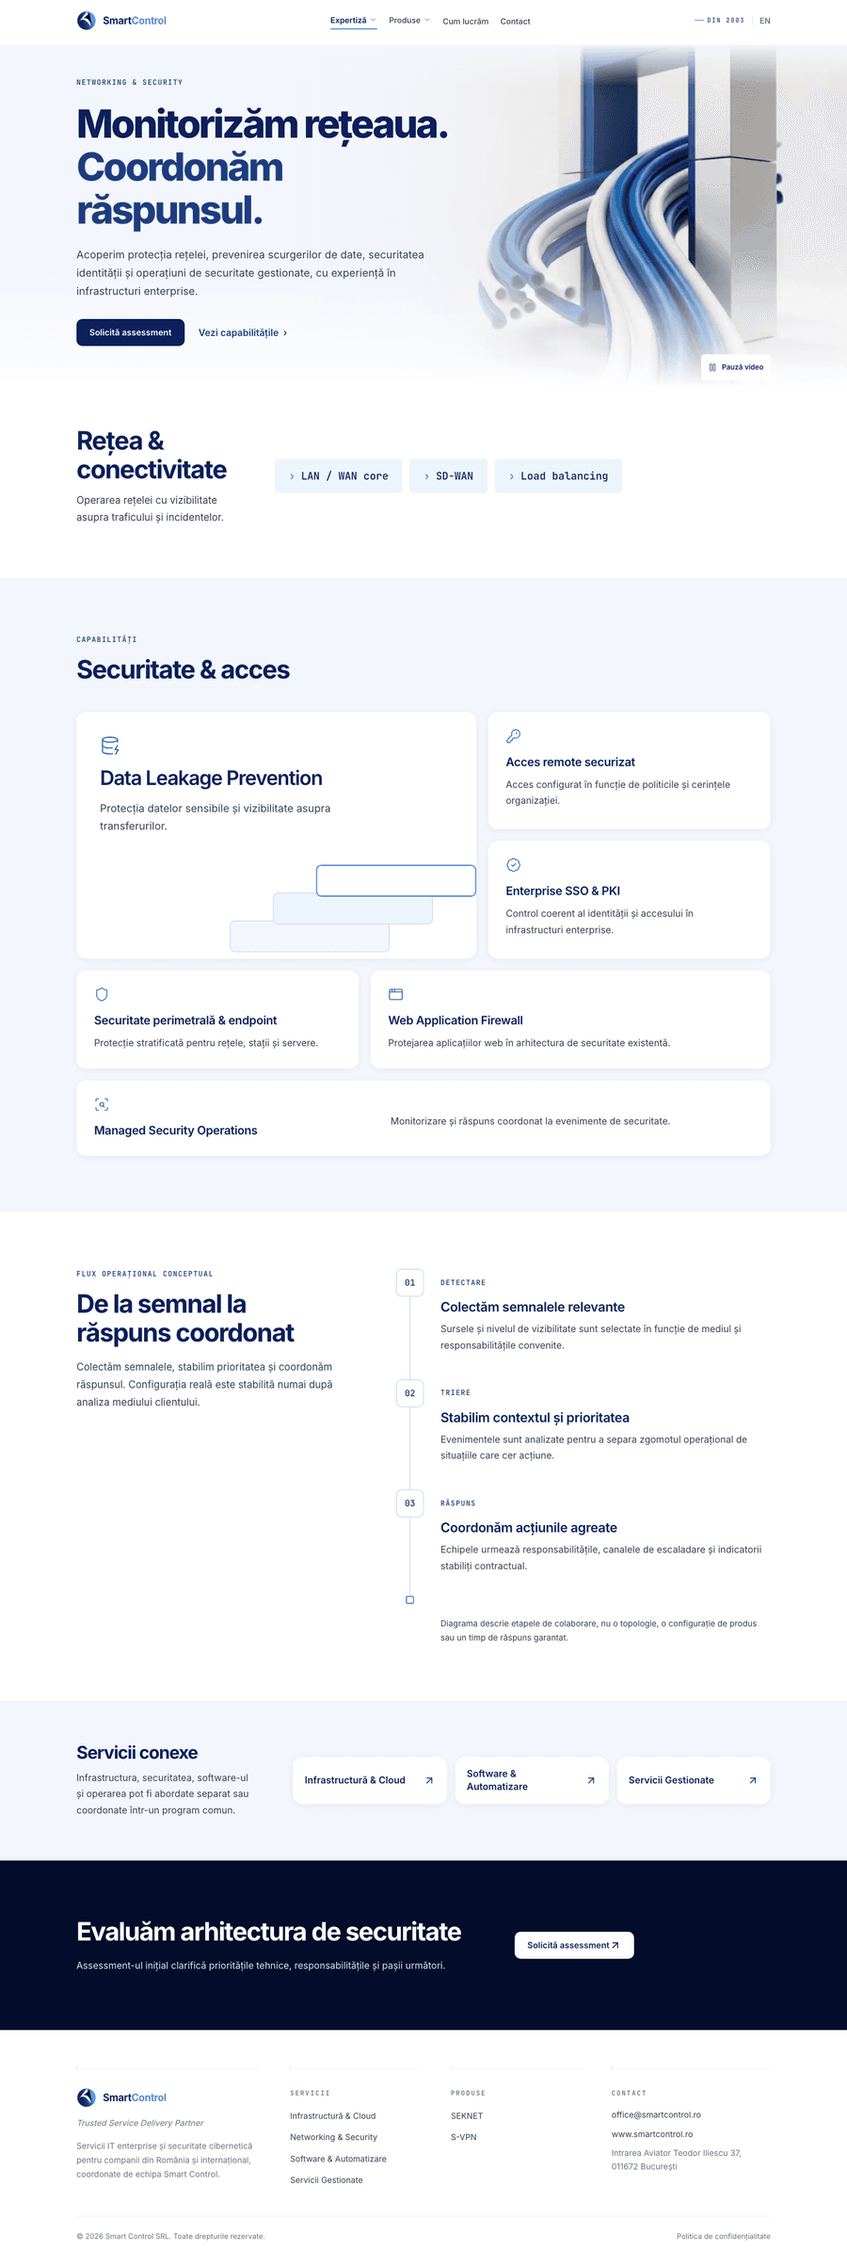
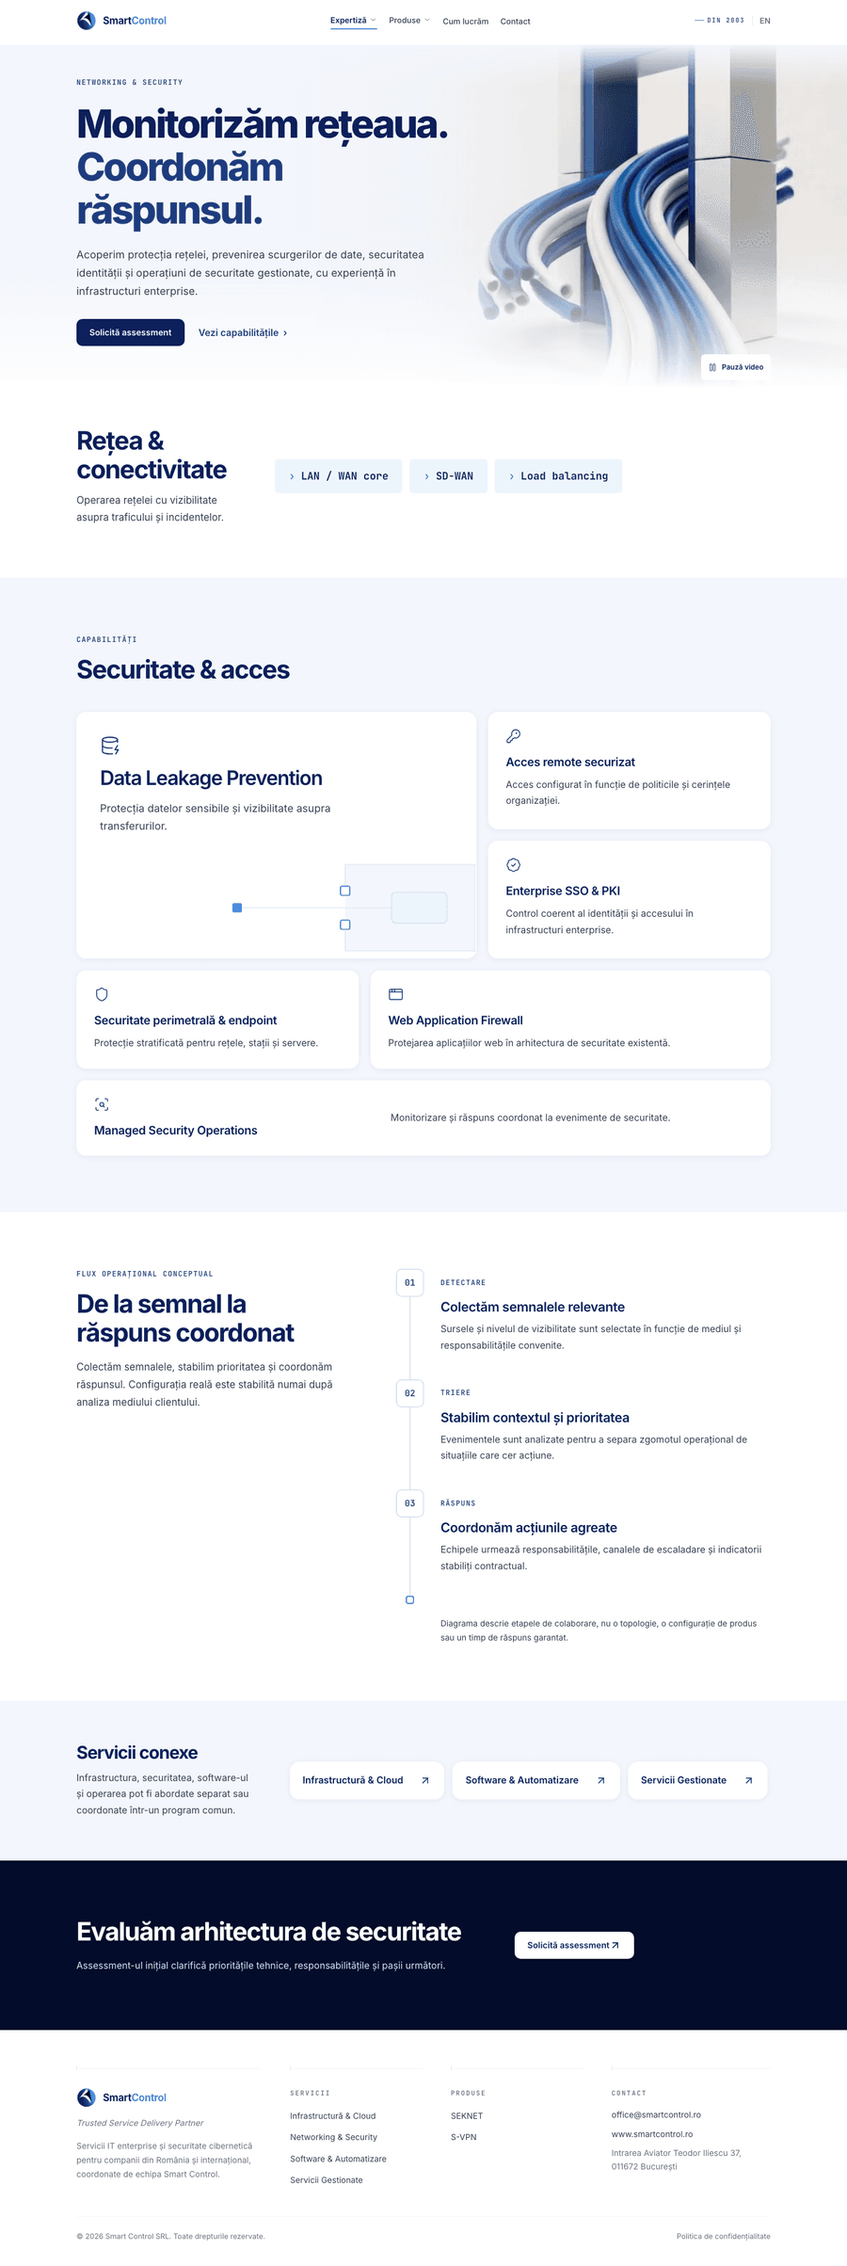
fix(services): address review of the service template redesign
- capability icons in royal (mid-blue is a gradient stop only)
- featured-tile motif varies per service (plates, perimeter gate,
  pipeline gates, orbit) instead of one repeated decoration
- decorative chevrons use the content alt-text form so they are not read
- pill weights 400/600 (500 is nav-only); terminal uses --radius-xs
- wide-card text selectors outrank .svc-card p (spacing bug)
- initStepper fills the whole rail under reduced motion, replacing the
  CSS !important override
- document the white-band assumption behind the flow note
- related links size to their titles on one desktop row
- README: explicit hero spacing note and Review follow-ups

diff --git a/src/styles/detail.css b/src/styles/detail.css
@@ -396,7 +396,7 @@
   padding: 12px 18px;
   border-radius: var(--radius-sm);
   background: var(--color-blue-wash);
-  font: 500 0.9375rem/1.45 var(--font-mono);
+  font: 400 0.9375rem/1.45 var(--font-mono);
   letter-spacing: -0.01em;
   color: var(--color-navy);
 }
@@ -404,9 +404,11 @@
 .svc-pills--tokens li {
   padding: 16px 24px;
   font-size: 1.125rem;
+  font-weight: 600;
 }
 .svc-pills li::before {
   content: "›";
+  content: "›" / "";
   font-weight: 700;
   color: var(--color-bright);
 }
@@ -462,8 +464,8 @@
   column-gap: 64px;
   align-items: start;
 }
-.svc-card--wide > p,
-.svc-card--wide > ul {
+.svc-card.svc-card--wide > p,
+.svc-card.svc-card--wide > ul {
   grid-column: 2;
   grid-row: 1 / span 2;
   align-self: center;
@@ -472,7 +474,7 @@
 .svc-card-icon {
   flex-shrink: 0;
   margin-bottom: 18px;
-  color: var(--color-mid-blue);
+  color: var(--color-royal);
 }
 .svc-card h3 {
   font-size: 1.25rem;
@@ -511,6 +513,7 @@
 }
 .svc-ticks li::before {
   content: "›";
+  content: "›" / "";
   position: absolute;
   left: 2px;
   font-weight: 700;
@@ -550,6 +553,14 @@
 .svc-art-top {
   fill: var(--color-surface);
   stroke: var(--color-bright);
+}
+.svc-art-line {
+  fill: none;
+  stroke: var(--color-border-blue);
+}
+.svc-art-accent {
+  fill: var(--color-bright);
+  stroke: none;
 }
 
 /* Workflow: sticky intro beside a vertical timeline. initStepper (motion.js)
@@ -643,7 +654,9 @@
   color: var(--color-slate);
 }
 /* The caption closes the rail: a square terminal, and the note's white
-   background masks the rail below it. */
+   background masks the rail below it. This assumes the workflow sits on a
+   white band (.svc-flow has no .detail-wash); if that changes, change this
+   background to match. */
 .svc-flow-note {
   position: relative;
   z-index: 1;
@@ -662,7 +675,7 @@
   width: 14px;
   height: 14px;
   border: 2px solid var(--color-bright);
-  border-radius: 3px;
+  border-radius: var(--radius-xs);
   background: var(--color-surface);
 }
 
@@ -718,8 +731,8 @@
 }
 .svc-related-grid {
   display: grid;
-  grid-template-columns: minmax(0, 3fr) minmax(0, 8fr);
-  gap: 28px 64px;
+  grid-template-columns: minmax(0, 0.9fr) minmax(0, 2.4fr);
+  gap: 28px 56px;
   align-items: center;
 }
 .svc-related-intro h2 {
@@ -731,23 +744,25 @@
   line-height: 1.7;
   color: var(--color-slate);
 }
+/* One line on desktop: tiles size to their titles and only shrink (wrapping
+   their own title) when the row runs out of room. */
 .svc-related-links {
   display: flex;
-  flex-wrap: wrap;
+  flex-wrap: nowrap;
   gap: 14px;
 }
 .svc-related-links li {
-  flex: 1 1 200px;
+  flex: 0 1 auto;
   min-width: 0;
 }
 .svc-related-links a {
   display: flex;
   align-items: center;
   justify-content: space-between;
-  gap: 16px;
+  gap: 28px;
   height: 100%;
   min-height: 64px;
-  padding: 18px 20px;
+  padding: 18px 22px;
   border-radius: var(--radius-xl);
   background: var(--color-surface);
   box-shadow: var(--shadow-sm);
@@ -819,8 +834,8 @@
   .svc-card--wide {
     display: flex;
   }
-  .svc-card--wide > p,
-  .svc-card--wide > ul {
+  .svc-card.svc-card--wide > p,
+  .svc-card.svc-card--wide > ul {
     align-self: stretch;
     margin-top: 12px;
   }
@@ -845,6 +860,12 @@
   .svc-pills--tokens li {
     padding: 12px 18px;
     font-size: 1rem;
+  }
+  .svc-related-links {
+    flex-wrap: wrap;
+  }
+  .svc-related-links li {
+    flex: 1 1 100%;
   }
   .svc-stacked-intro {
     margin-bottom: 36px;
@@ -883,10 +904,6 @@
   }
 }
 @media (prefers-reduced-motion: reduce) {
-  /* No scroll-driven fill: the rail reads as complete. */
-  .svc-rail > [data-stepper-fill] {
-    height: 100% !important;
-  }
   .svc-stage-node,
   .svc-related-links a,
   .svc-related-links svg {

diff --git a/src/scripts/motion.js b/src/scripts/motion.js
@@ -38,7 +38,7 @@ export function initNavShrink(nav, opts={}) {
 
 export function initStepper(container, fill, opts={}) {
   if (!container||!fill) return ()=>{}; const dark=!!opts.dark; const steps=container.querySelectorAll('[data-step]');
-  const update=()=>{ const rect=container.getBoundingClientRect(); const px=Math.max(0,Math.min(rect.height,window.innerHeight*.55-rect.top)); fill.style.height=`${px}px`;
+  const update=()=>{ const rect=container.getBoundingClientRect(); const px=reducedMotion()?rect.height:Math.max(0,Math.min(rect.height,window.innerHeight*.55-rect.top)); fill.style.height=`${px}px`;
     steps.forEach((step)=>{ const dot=step.querySelector('[data-step-dot]'); const body=step.querySelector('[data-step-body]'); const active=px>=step.offsetTop+(dot?dot.offsetTop+dot.offsetHeight/2:26)||reducedMotion();
       step.dataset.stepState=active?'active':'inactive';
       if(dot){dot.style.borderColor=active?'var(--color-bright)':(dark?'color-mix(in srgb,var(--color-sky) 55%,transparent)':'var(--color-border-blue)');dot.style.color=active?(dark?'var(--color-surface)':'var(--color-navy)'):(dark?'var(--color-on-dark)':'var(--color-royal)');dot.style.background=active?(dark?'color-mix(in srgb,var(--color-bright) 16%,transparent)':'var(--color-blue-wash)'):(dark?'var(--color-midnight)':'var(--color-surface)');dot.style.boxShadow=active?'0 0 0 3px color-mix(in srgb,var(--color-bright) 16%,transparent)':'none';}

diff --git a/docs/design-proposals/service-pages-less-grid/README.md b/docs/design-proposals/service-pages-less-grid/README.md
@@ -12,14 +12,14 @@ hairline above each item. Each section now has its own composition. The brand
 stays geometric and hard-edged: the variety comes from asymmetry, scale and one
 connected sequence, not from organic shapes.
 
-| Section          | Before                                                               | After                                                                                                                                                                                                                                                                                                                                                                                                                                                                                                                                                                                |
-| ---------------- | -------------------------------------------------------------------- | ------------------------------------------------------------------------------------------------------------------------------------------------------------------------------------------------------------------------------------------------------------------------------------------------------------------------------------------------------------------------------------------------------------------------------------------------------------------------------------------------------------------------------------------------------------------------------------ |
-| Hero             | Copy about 92px under the nav                                        | Same media machinery, actions and anchors. On desktop the copy now sits about 50px under the nav. Below 901px the padding is unchanged, because the video toggle moves to the top-right corner there.                                                                                                                                                                                                                                                                                                                                                                                |
-| Scope            | 2-column hairline list, inside the capabilities section              | Its own statement band on white: the heading (and body, where present) sits beside a flowing row of mono `›` pills, with no hairlines. Lists made only of short technical tokens (Security: `LAN / WAN core`, `SD-WAN`, `Load balancing`) get larger, stat-style pills.                                                                                                                                                                                                                                                                                                              |
-| Capabilities     | 2×2 / 2×3 hairline grid of icon, title and text                      | A stacked intro (eyebrow, heading, then lead) over an asymmetric bento of white cards on the wash. The first item is the tall featured tile: larger icon and type, plus a code-drawn stepped-plates SVG that bleeds off its edge. The next two items are side tiles. The rest alternate 5/7 and 7/5 pairs, and an odd leftover runs full width with its title beside its text. This handles 4 (Cloud), 5 (Software), 6 (Security) and 7 (Managed) items. Cloud's `items[]` sub-points render as a `›` list instead of being joined with " · ".                                       |
-| Flow / workflow  | Equal columns with a top rule, labels as `0n / Label`                | A sticky intro beside a vertical timeline (stacked on mobile). A rail runs down rounded-square numbered nodes. Its bright fill grows with scroll and lights each node, using the existing `initStepper` through `[data-stepper]`, `[data-stepper-fill]`, `[data-step]`, `[data-step-dot]` and `[data-step-body]`. The mono stage label sits on the node's line, with the title and body under it. The caption closes the rail as a note beside a square terminal. The numbers stay because the order is real. Unlike the homepage staircase, this is a vertical, scroll-linked rail. |
-| Proof (Software) | The capabilities grid reused                                         | An asymmetric split on the wash: the heading on the left, and on the right a compact list of icon chips, each with a title and one line. No cards, no hairlines.                                                                                                                                                                                                                                                                                                                                                                                                                     |
-| Related services | Eyebrow, split intro and three equal hairline columns with body text | A compact band with a short heading and intro beside one row of whole-card links (title and arrow). It becomes a stacked column on mobile.                                                                                                                                                                                                                                                                                                                                                                                                                                           |
+| Section          | Before                                                               | After                                                                                                                                                                                                                                                                                                                                                                                                                                                                                                                                                                                                                                                                                                                     |
+| ---------------- | -------------------------------------------------------------------- | ------------------------------------------------------------------------------------------------------------------------------------------------------------------------------------------------------------------------------------------------------------------------------------------------------------------------------------------------------------------------------------------------------------------------------------------------------------------------------------------------------------------------------------------------------------------------------------------------------------------------------------------------------------------------------------------------------------------------- |
+| Hero             | Copy about 92px under the nav                                        | **Spacing change:** on desktop the hero copy now sits about 50px under the nav instead of about 92px. The owner asked for tighter nav-to-hero spacing on the homepage, and this applies the same intent (`.service-hero` padding-top, above 900px only). Below 901px the padding is unchanged, because the video toggle moves to the top-right corner there. Media, actions and anchors are unchanged.                                                                                                                                                                                                                                                                                                                    |
+| Scope            | 2-column hairline list, inside the capabilities section              | Its own statement band on white: the heading (and body, where present) sits beside a flowing row of mono `›` pills, with no hairlines. Lists made only of short technical tokens (Security: `LAN / WAN core`, `SD-WAN`, `Load balancing`) get larger, stat-style pills.                                                                                                                                                                                                                                                                                                                                                                                                                                                   |
+| Capabilities     | 2×2 / 2×3 hairline grid of icon, title and text                      | A stacked intro (eyebrow, heading, then lead) over an asymmetric bento of white cards on the wash. The first item is the tall featured tile: larger icon and type, plus a small code-drawn motif specific to each service that bleeds off its edge. Cloud has stacked plates, Security a perimeter pane with a gate, Software pipeline gates of growing size, and Managed an orbit around an operated block. The next two items are side tiles. The rest alternate 5/7 and 7/5 pairs, and an odd leftover runs full width with its title beside its text. This handles 4 (Cloud), 5 (Software), 6 (Security) and 7 (Managed) items. Cloud's `items[]` sub-points render as a `›` list instead of being joined with " · ". |
+| Flow / workflow  | Equal columns with a top rule, labels as `0n / Label`                | A sticky intro beside a vertical timeline (stacked on mobile). A rail runs down rounded-square numbered nodes. Its bright fill grows with scroll and lights each node, using the existing `initStepper` through `[data-stepper]`, `[data-stepper-fill]`, `[data-step]`, `[data-step-dot]` and `[data-step-body]`. The mono stage label sits on the node's line, with the title and body under it. The caption closes the rail as a note beside a square terminal. The numbers stay because the order is real. Unlike the homepage staircase, this is a vertical, scroll-linked rail.                                                                                                                                      |
+| Proof (Software) | The capabilities grid reused                                         | An asymmetric split on the wash: the heading on the left, and on the right a compact list of icon chips, each with a title and one line. No cards, no hairlines.                                                                                                                                                                                                                                                                                                                                                                                                                                                                                                                                                          |
+| Related services | Eyebrow, split intro and three equal hairline columns with body text | A compact band with a short heading and intro beside one row of whole-card links (title and arrow). The tiles size to their titles rather than splitting the row into equal thirds; they stay on one line on desktop and stack on mobile.                                                                                                                                                                                                                                                                                                                                                                                                                                                                                 |
 
 ## Section rhythm
 
@@ -44,8 +44,8 @@ The intro layouts vary too:
 ## Design decisions
 
 - **Shared selectors are untouched.** `ProductDetailPage.astro` still uses `.detail-intro`, `.detail-capabilities`, `.detail-capability`, `.detail-steps`, `.detail-step*`, `.detail-scope-list` and `.detail-related`, so those rules stay as they were. Only `.detail-scope` and `.detail-caption` were deleted, because nothing else uses them. All new layouts live under `svc-*` classes, plus a desktop-only padding rule on the service-only `.service-hero`.
-- **Theme tokens only.** All colours come from `var(--color-*)`, cards use `--radius-xl` and `--shadow-sm`, nodes and chips use `--radius-md`, and icons are Lucide at stroke 1.5. Body-size link text is navy/royal. Bright blue is used only for rules, the rail fill, the node accent and the decorative `›` glyphs.
-- **Motion.** Motion uses the existing `DetailMotion` reveal and the `initStepper` already wired in `BaseLayout`. There is no new script and no inline script. Under `prefers-reduced-motion` the rail renders fully filled with all nodes active, and the related-link transitions are off. Text is never dimmed, so the no-JS and contrast baselines hold.
+- **Theme tokens only.** All colours come from `var(--color-*)`, cards use `--radius-xl` and `--shadow-sm`, nodes and chips use `--radius-md`, and icons are Lucide at stroke 1.5 in royal. Capability cards are static summaries (RESOLUTIONS §34), so they have no hover accent. Body-size link text is navy/royal. Bright blue is used only for rules, the rail fill, the node accent, the motif accents and the decorative `›` glyphs.
+- **Motion.** Motion uses the existing `DetailMotion` reveal and the `initStepper` already wired in `BaseLayout`. There is no new script and no inline script. Under `prefers-reduced-motion`, `initStepper` fills the whole rail and keeps every node active, and the related-link transitions are off. Text is never dimmed, so the no-JS and contrast baselines hold.
 - **Anchors.** `#capabilities` now marks the capabilities section itself; the scope band sits above it. `#flux` (Cloud) and `#workflow` remain on the workflow section. `data-route-visual` and the `<figcaption>` stay on the workflow figure. The first `<ol>` on each page is still the workflow, with one `data-step` per stage.
 - **What is shown.** The capability cards still show `body` where it exists. The `items[]` sub-points (which Security and Managed also carry) are rendered only where there is no body, which is Cloud. This keeps the visible content the same as before.
 
@@ -59,6 +59,21 @@ items that the old layout showed:
 
 The stage label is no longer prefixed with `0n /`. The number now sits in the
 timeline node, so the label text itself is unchanged.
+
+## Review follow-ups
+
+An independent review found no functional blockers. These fixes were made
+afterwards:
+
+1. **Icon colour.** Capability icons use `--color-royal` instead of `--color-mid-blue`, which `global.css` reserves as a gradient stop.
+2. **Featured-tile motif.** The motif now varies per service through `content.hero.artwork`, so one decoration no longer repeats across the template. The four drawings are aria-hidden and use token colours only.
+3. **Chevrons are not read aloud.** The decorative `›` on pills and tick lists uses `content: "›"; content: "›" / "";`: a fallback, then the empty-alt-text form. The minified build keeps both declarations.
+4. **Pill weight.** Pills use weight 400, and the short-token pills 600; 500 stays reserved for the nav.
+5. **Terminal radius.** The rail terminal uses `var(--radius-xs)` instead of a literal 3px.
+6. **Wide-card spacing.** `.svc-card--wide > p` lost to the later `.svc-card p` rule because both had the same specificity, which nudged the paragraph down (Security's sixth card). The selectors are now `.svc-card.svc-card--wide > p` and `> ul`. This also fixes the list centring in the mobile override.
+7. **Reduced-motion fill.** The `!important` reduced-motion override is gone. `initStepper` in `src/scripts/motion.js` now uses the full rail height when `reducedMotion()` is true, as a one-line change. Steps were already all active in that mode, and the new timeline is the only `[data-stepper]` on the site.
+8. **Note background.** A CSS comment records that `.svc-flow-note`'s white background, which masks the rail, assumes the workflow sits on a white band.
+9. **Related tiles.** The tiles size to their titles instead of three equal `flex: 1 1 200px` tiles. They stay on one line on desktop, shrinking and wrapping their own title only when space runs out (checked at 1024px), and stack on mobile.
 
 ## Check adjustment
 
